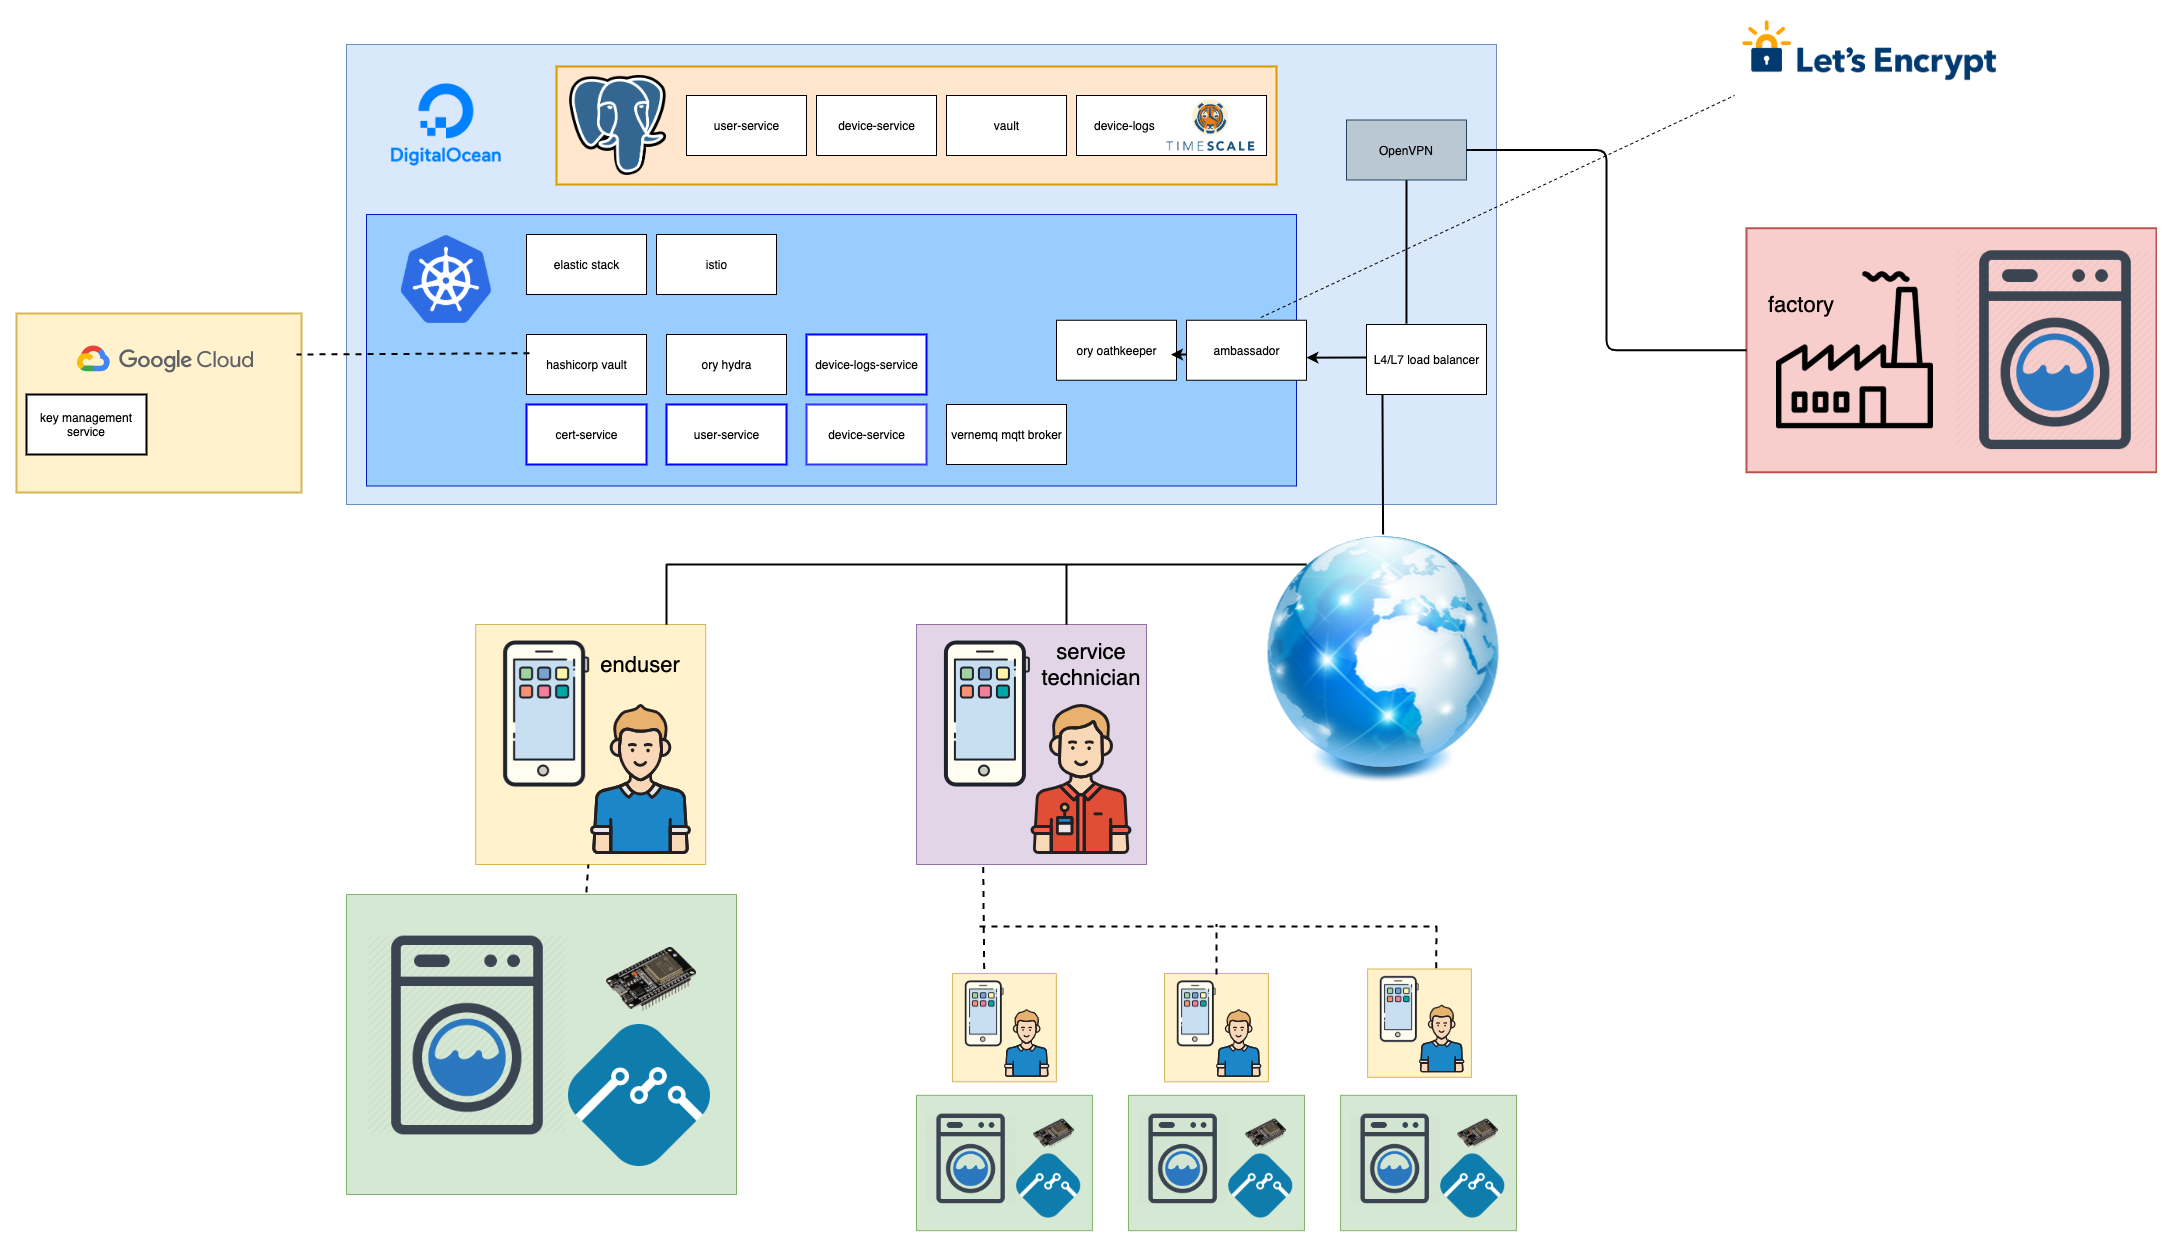
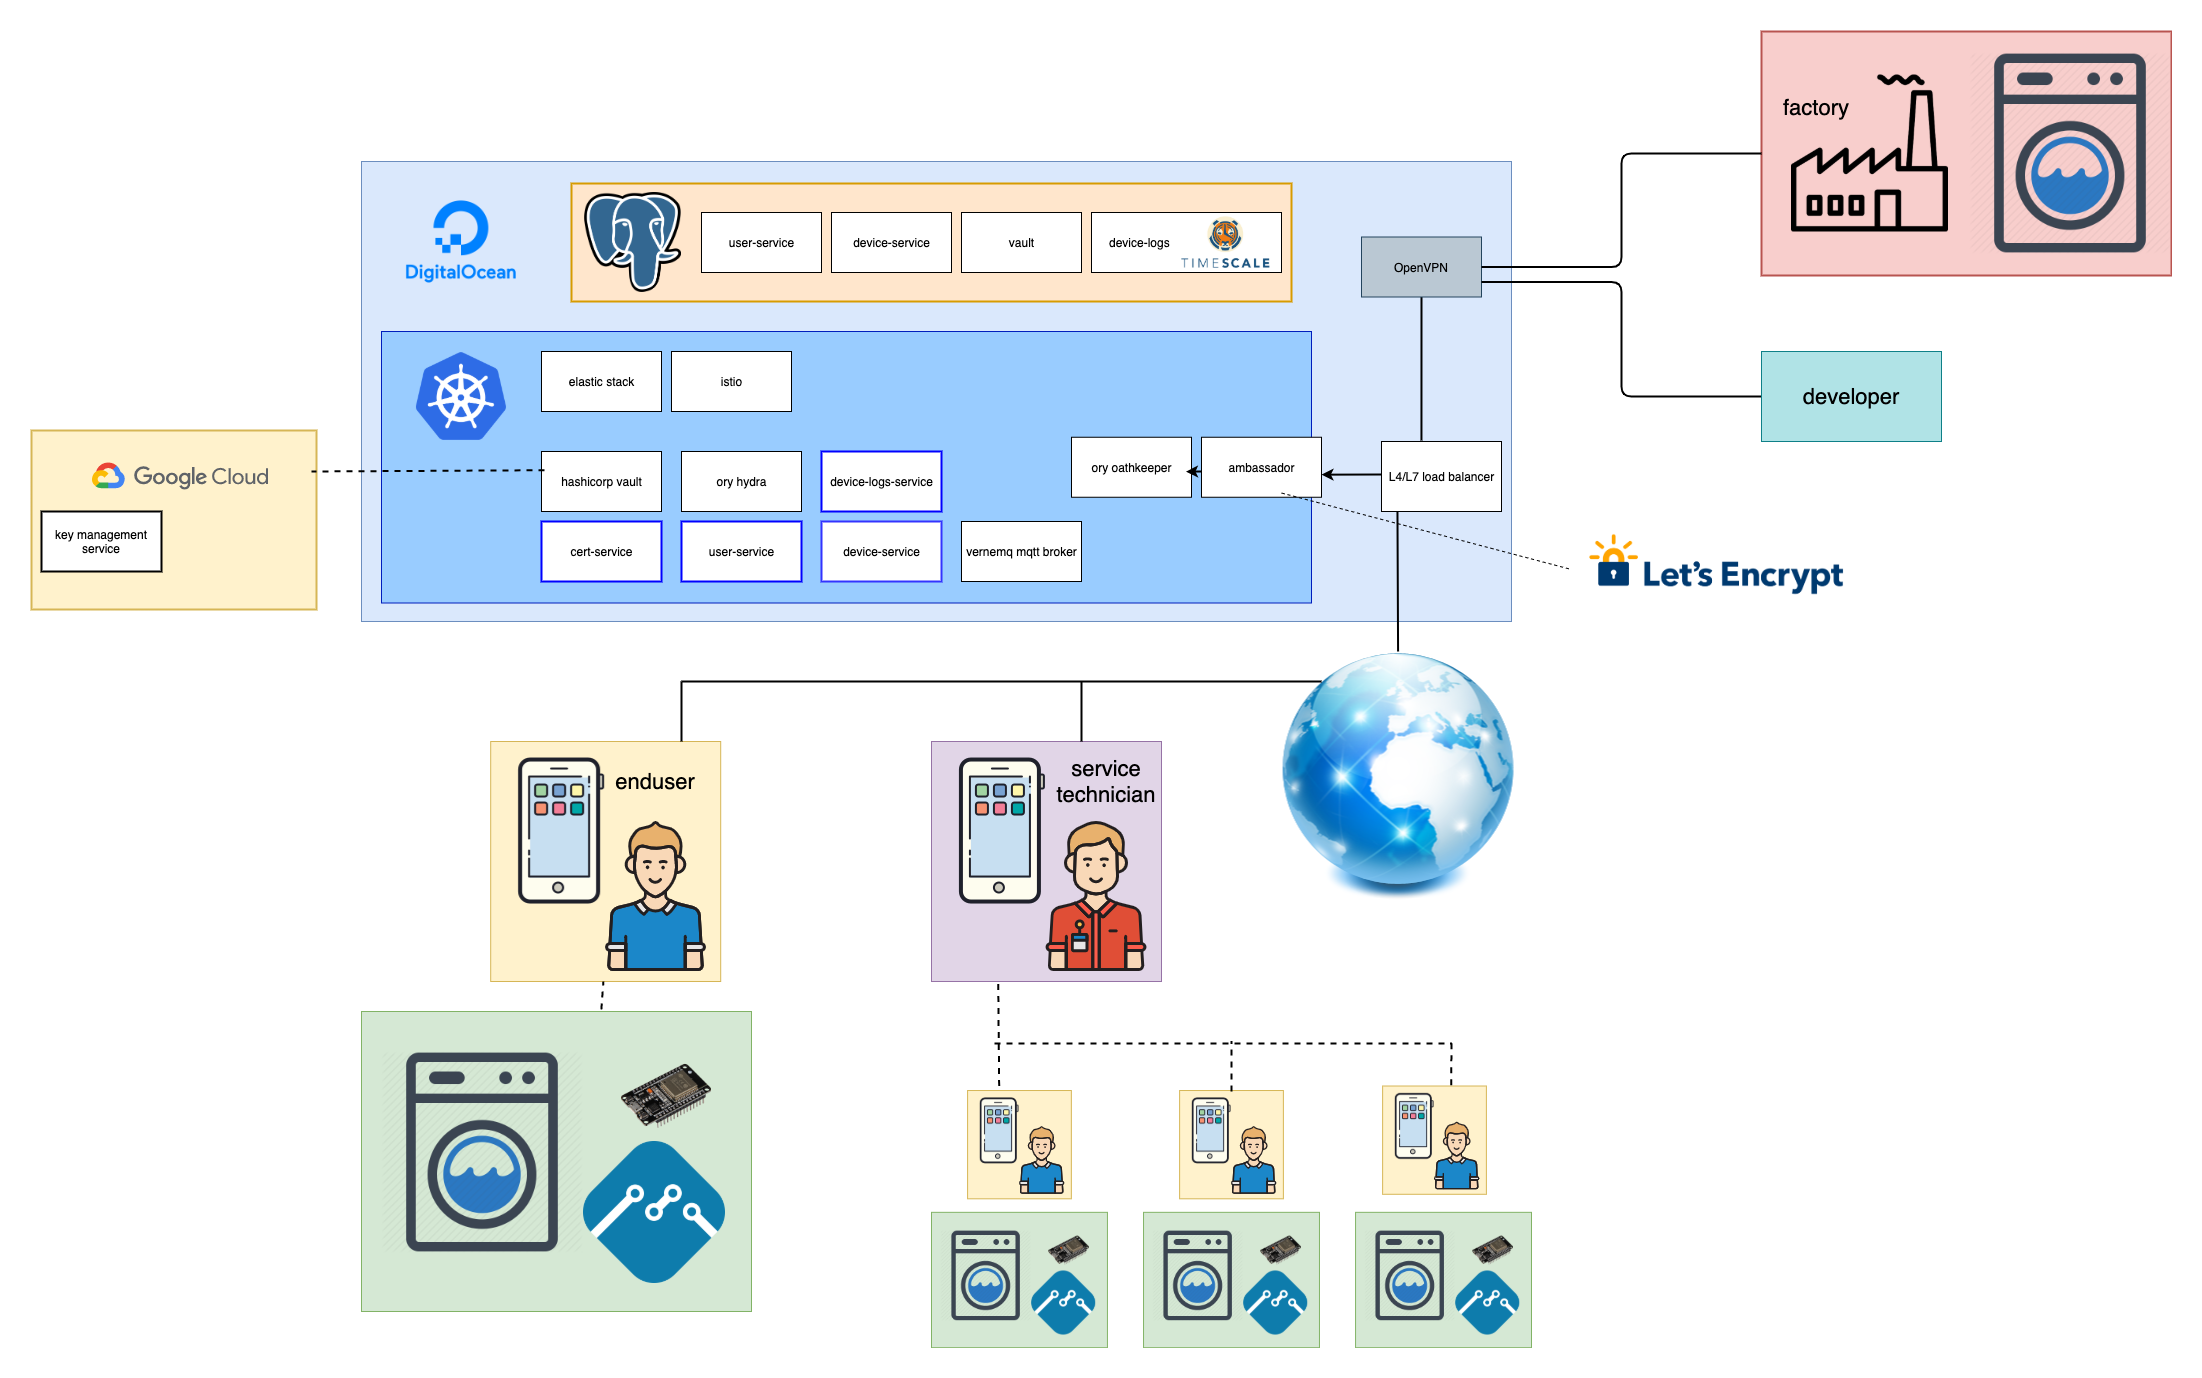
feat: Add content structure

diff --git a/README.md b/README.md
@@ -23,4 +23,71 @@ This repository contains all information about my IoT project for the SE09 modul
 <iframe class="airtable-embed" src="https://airtable.com/embed/shr0tufoYRPPDTZJf?backgroundColor=red&viewControls=on" frameborder="0" onmousewheel="" width="100%" height="533" style="background: transparent; border: 1px solid #ccc;"></iframe>
 
 
+# Kubernetes security
+
+## Network policies
+
+## Pod security policies
+
+
+
+# Network security
+
+## Ory Oathkeeper gateway
+
+## Ambassador with TLS
+
+## VPN to restrict access
+
+## Database/Cluster limits
+
+
+
+# IoT security
+
+## MQTT broker
+
+## Vault PKI
+
+## Encrypted firmware
+
+
+
+# Application security
+
+##  OAuth 2.0 Authorization Code Flow with PKSE
+
+##  Ory Hydra + user services for tokens
+
+##  Authentification through Oathkeeper & Hydra
+
+##  Authorization still done in application (Ory Keto for ACL's in the future)
+
+##  bcrypt for salted and encrypted passwords
+
+##  SQL injections
+
+##  CORS
+
+
+
+# Database security
+
+##  Restrict access by IP and user permissions (least priviledge)
+
+##  Backups/Recovery
+
+##  Fallback during outtages
+
+
+
+# Monitoring
+
+## Sentry for crash reporting
+
+##  Collect logs with the Elastic stack
+
+##  Collect metrics with Prometheus
+
+##  Auditing for PostgreSQL
 
